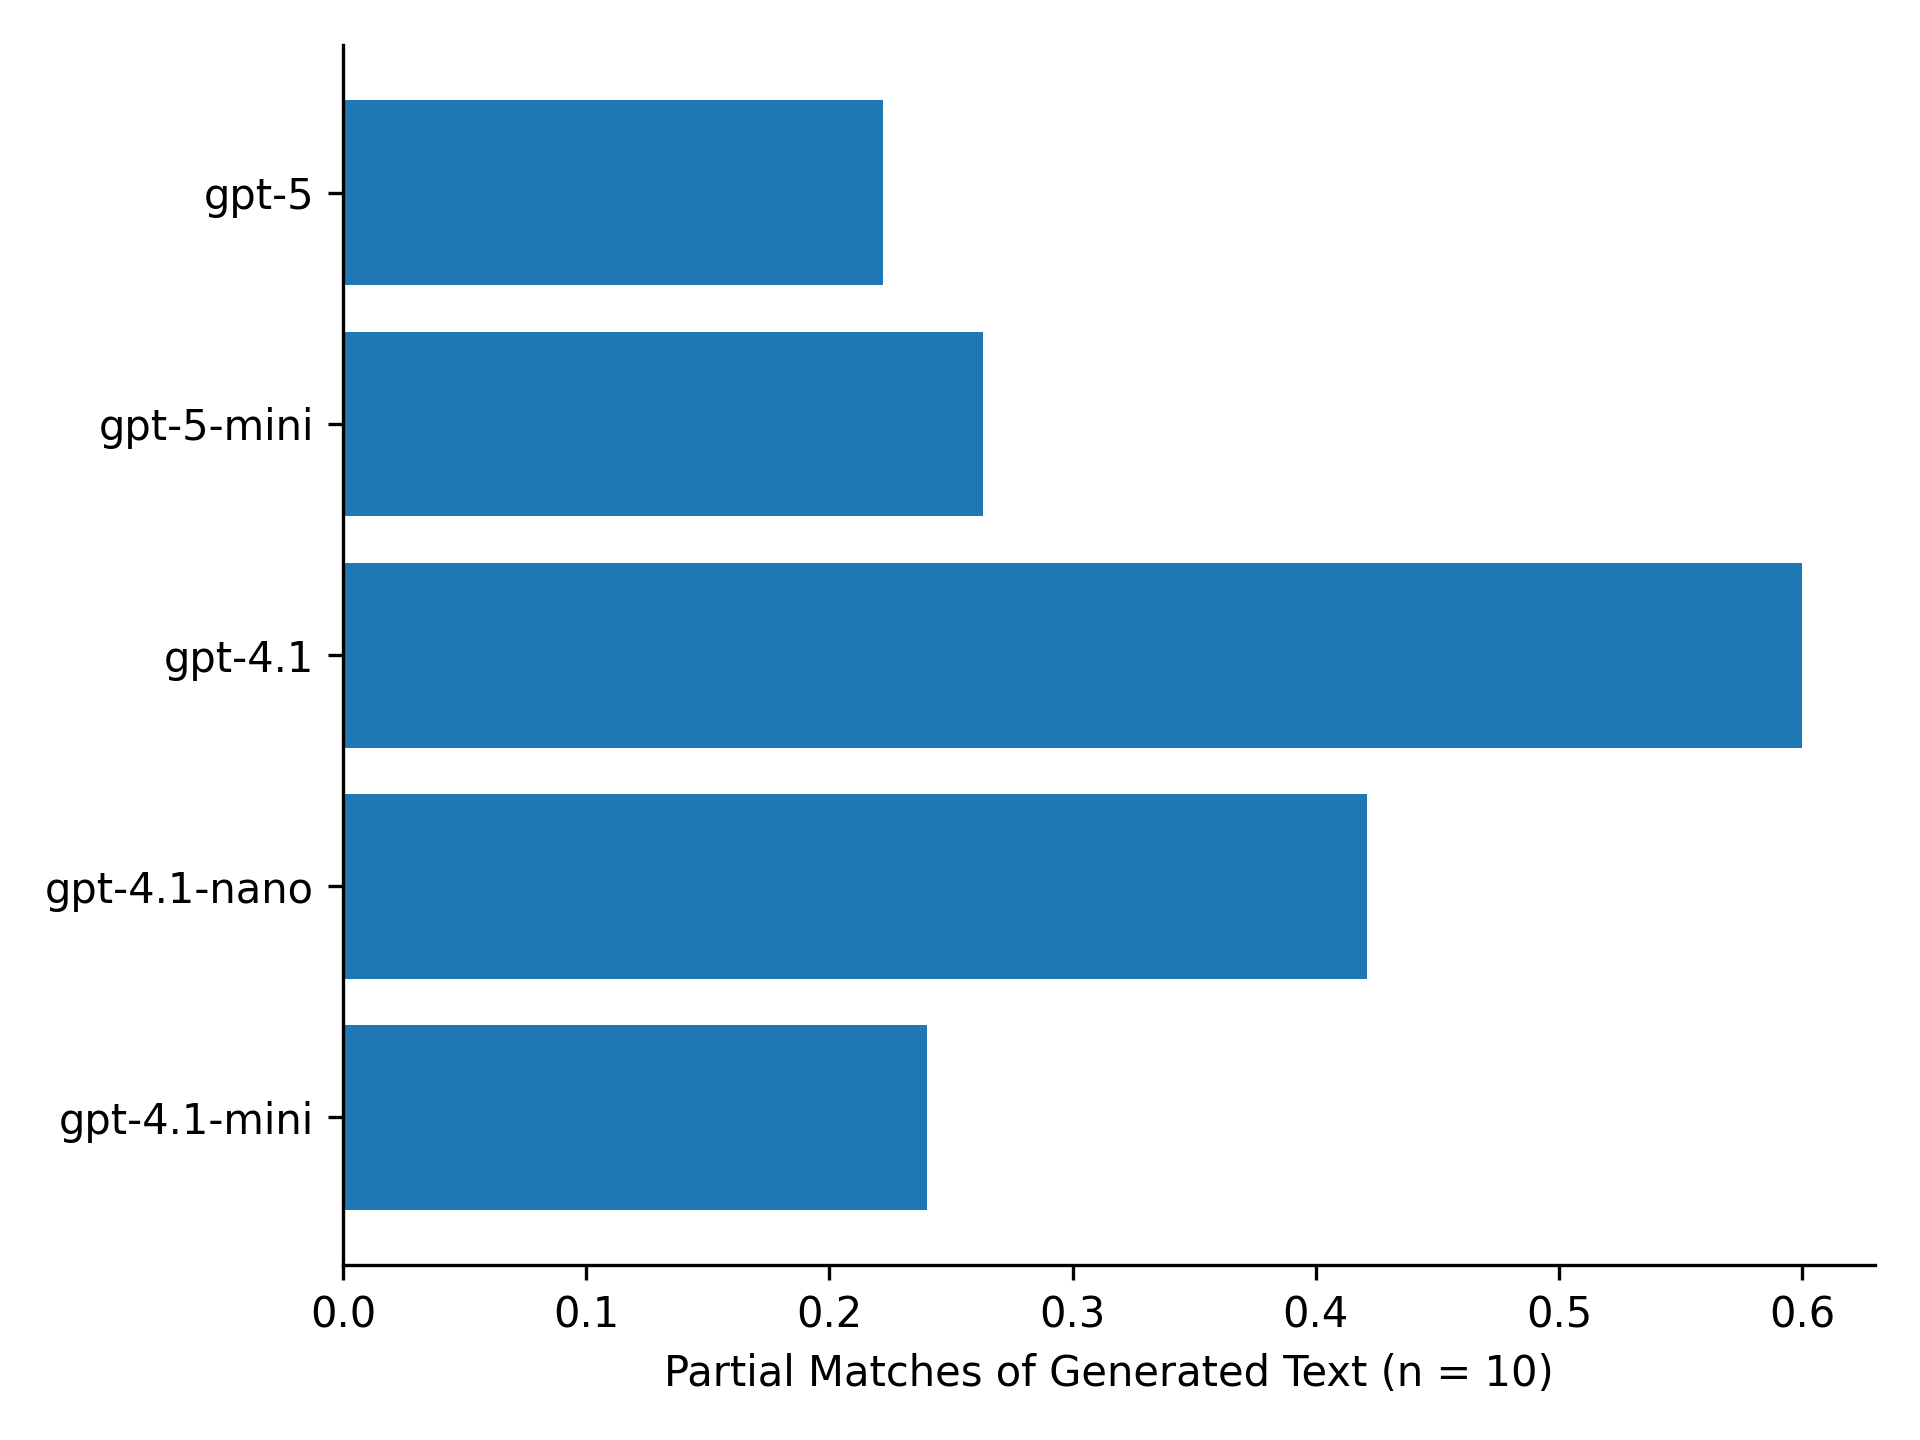
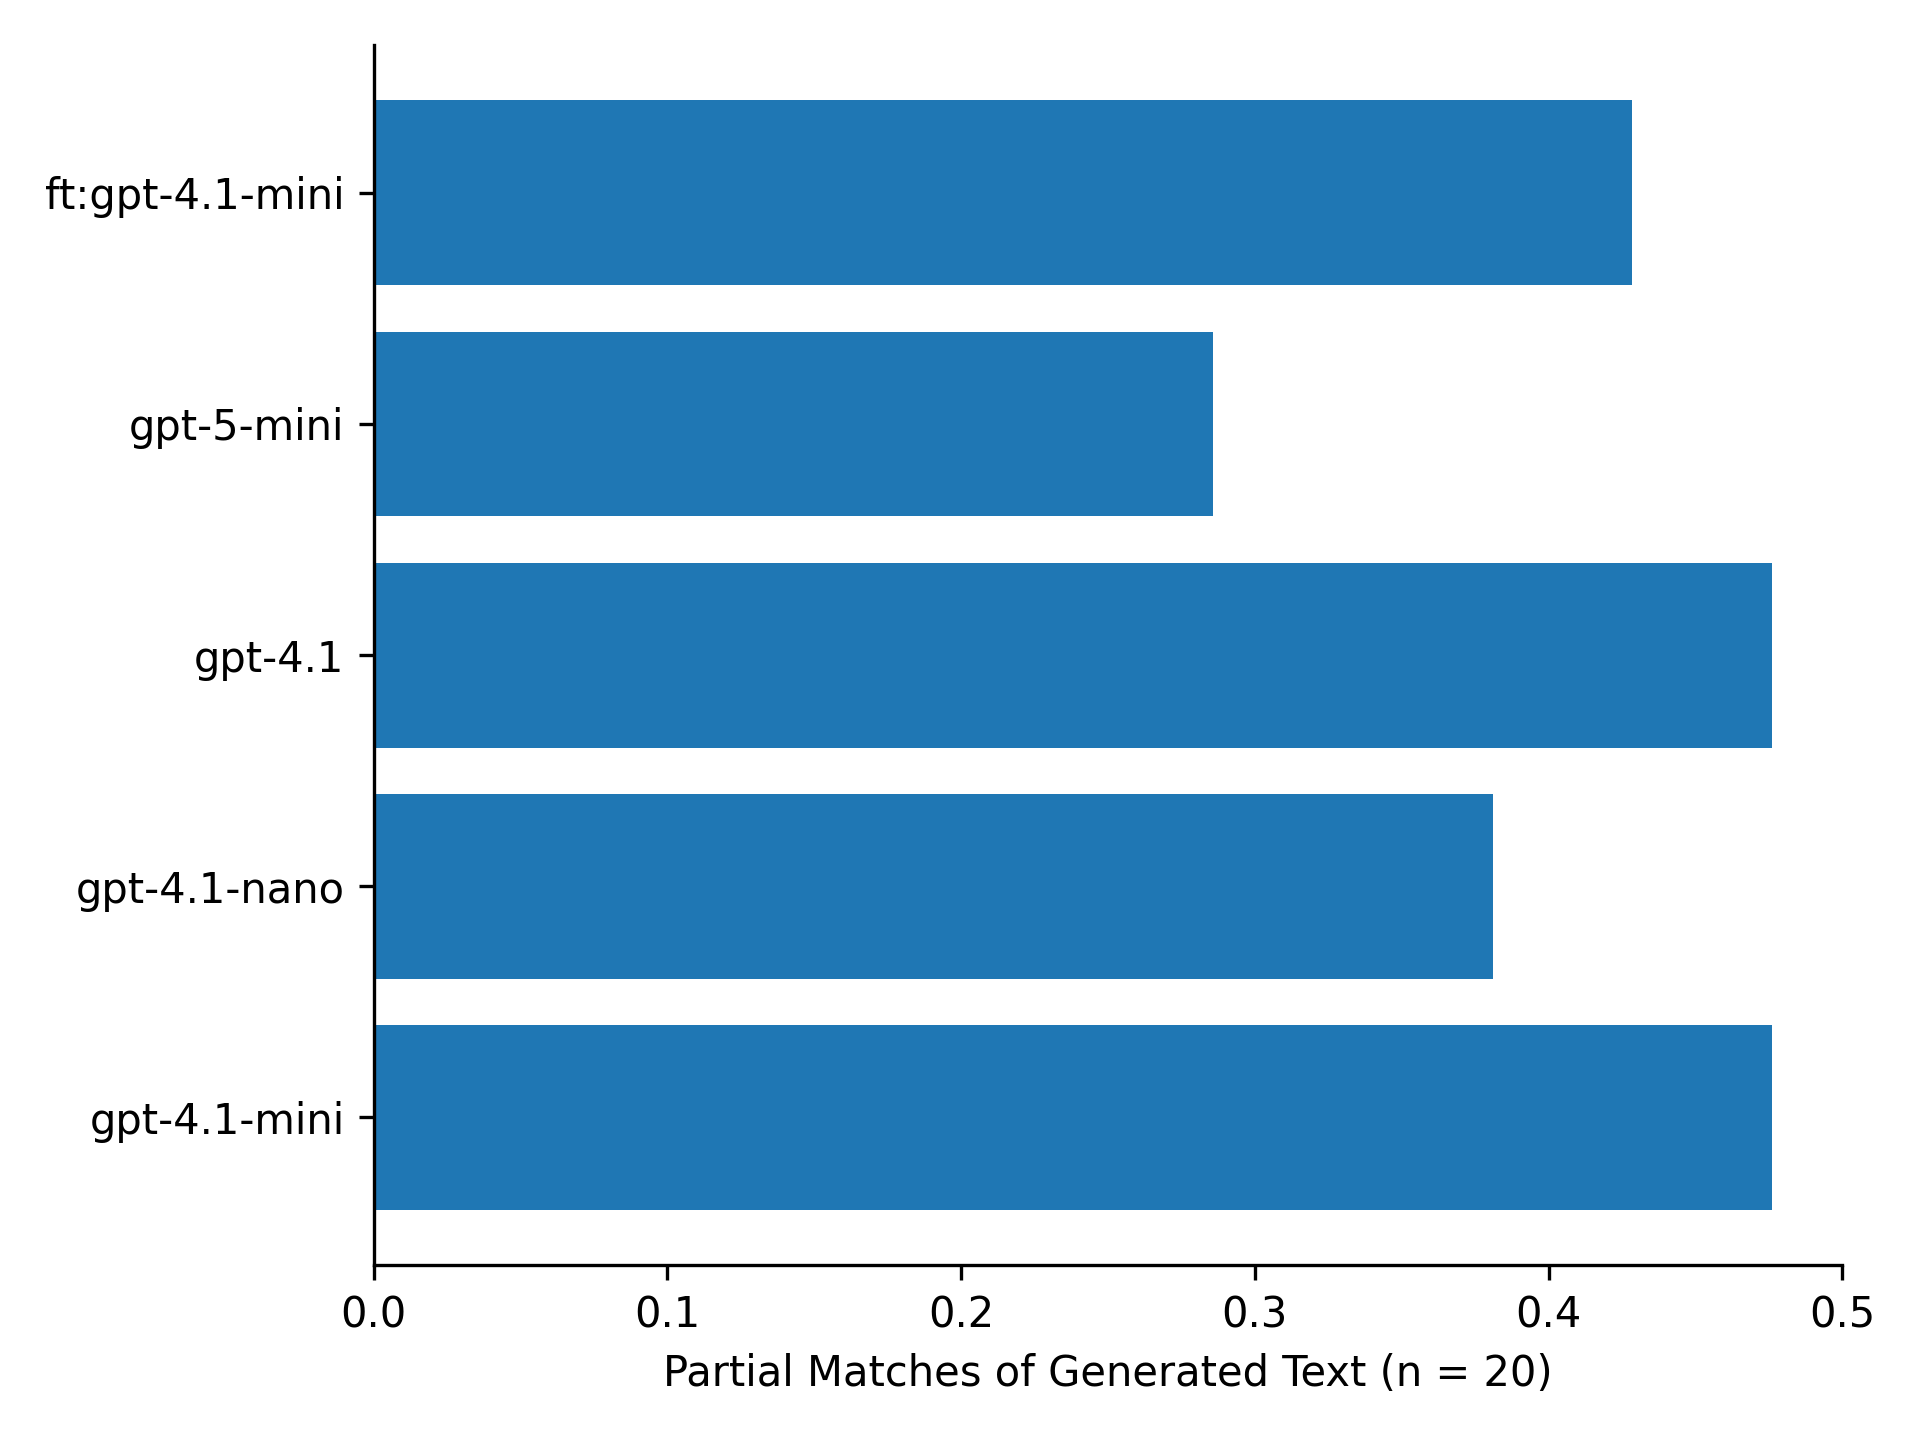
Added fine tuned model to model eval loop

diff --git a/hot_links/config.py b/hot_links/config.py
@@ -30,3 +30,9 @@ try:
     logger.add(lambda msg: tqdm.write(msg, end=""), colorize=True)
 except ModuleNotFoundError:
     pass
+
+n_sft = 200
+n_dpo = 200
+# Number of articles for SFT and DPO training sets
+
+fine_tuned_model_name = 'ft:gpt-4.1-mini-2025-04-14:personal:hot-links-sft:D2LZkPm2'
